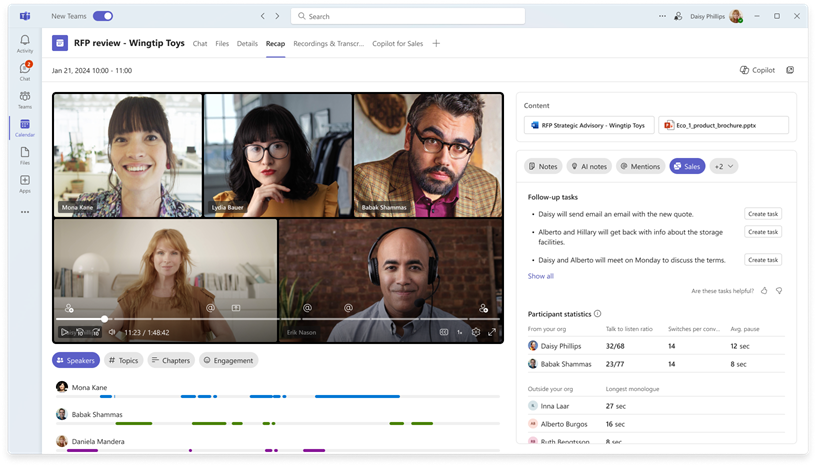
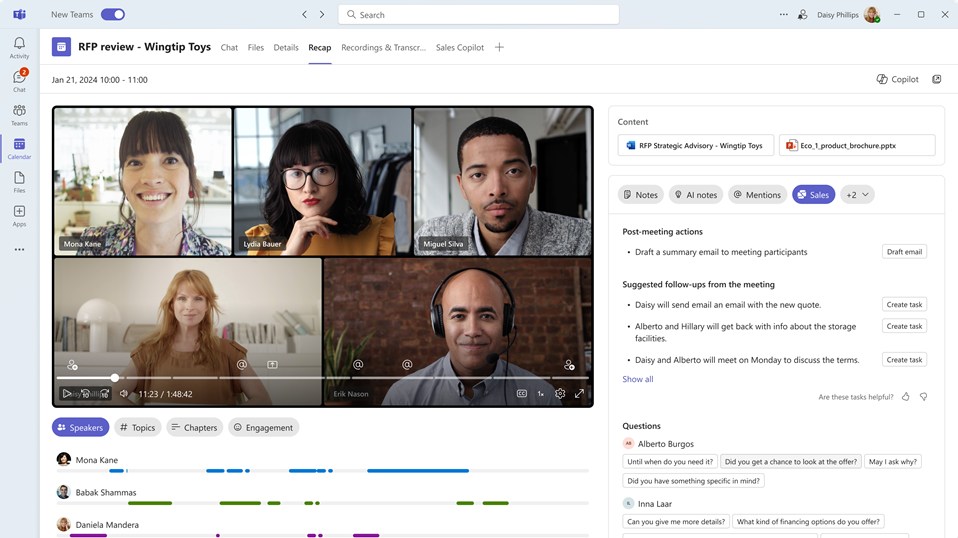
update

diff --git a/articles/view-meeting-summary-recap.md b/articles/view-meeting-summary-recap.md
@@ -93,9 +93,15 @@ With Copilot for Sales, you can quickly draft an email from the meeting recap in
 To create a post-meeting summary email:
 
 1. [Open a meeting recap in Teams and view sales related insights](#view-sales-related-insights-in-meeting-recap).
+
 1. Under the **Post-meeting actions** section, select **Draft email**. The email is drafted and opened in a pop-up window.
+
+    :::image type="content" source="media/draft-email-recap.png" alt-text="Screenshot showing AI-generatd draft email from meeting recap in Teams.":::
+
 1. To copy the email content to your clipboard, select **Copy**.
+
 1. To open the email in Outlook web, select **Open in Outlook web**.
+
 1. Review and update the email content as needed, and then send it to your customers.
 
 ### See also
